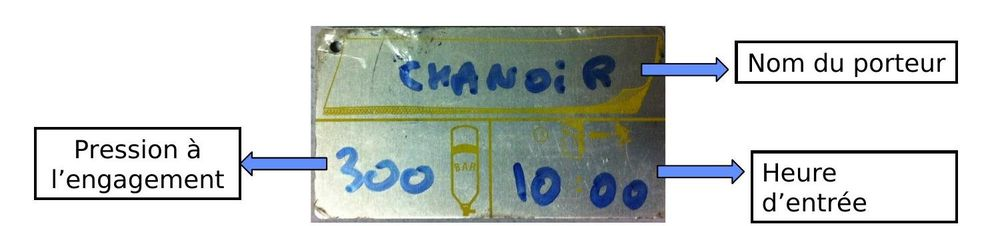
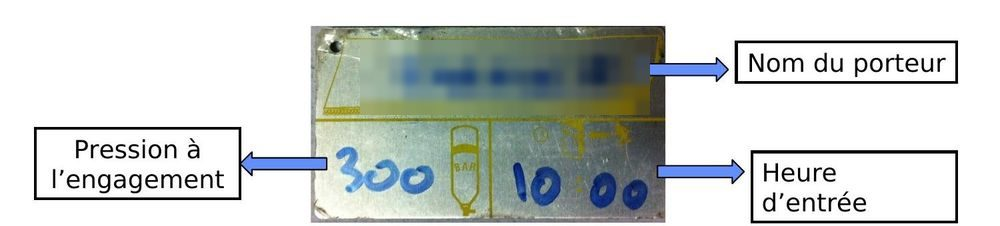
CE incendie : CE 4 reconnaissances et engagement sous ARI (6 chapitres, 42 questions) ; noms réels masqués sur les photos de contrôle ARI
Claude-Session: https://claude.ai/code/session_01FwEfhSDvTBjyVdhfKkJQcz

Changed region(s): [[0.341, 0.1549, 0.651, 0.5265], [0.434, 0.1549, 0.527, 0.1858]]

diff --git a/js/data/ce-4.js b/js/data/ce-4.js
@@ -171,7 +171,7 @@ VSAV.chap({
       html: '<p>Chaque stagiaire renseigne : âge, <b>pouls au repos</b>, <b>pouls limite</b>, nombre de tractions, puis pour chaque exercice (<b>marche normale, marche rapide, tour, cave</b>) les pressions et pouls de départ, d’arrivée et leur différence.</p>' +
         '<div class="callout ok"><b>Débit (consommation) : Q = (P0 − P1) × V / T</b> — P0 : pression de départ ; P1 : pression d’arrivée ; V : volume de la bouteille ; T : temps.</div>' +
         '<p class="small muted">Exemple de calcul (illustration) : départ 300 bar, arrivée 240 bar, bouteille 6 l, 5 min → (300 − 240) × 6 / 5 = 72 l/min.</p>' +
-        '<p><b>Pouls limite</b> (tableau B4-1-2, de 17 à 60 ans) : par exemple 170 à 20 ans, 161,5 à 30 ans, 153 à 40 ans, 144,5 à 50 ans, 136 à 60 ans. Les valeurs du tableau correspondent à 0,85 × (220 − âge).</p>' +
+        '<p><b>Pouls limite</b> (tableau B4-1-2, de 17 à 60 ans) : par exemple 170 à 20 ans, 161,5 à 30 ans, 153 à 40 ans, 144,5 à 50 ans, 136 à 60 ans.</p>' +
         '<p>La séquence B4-1 fait prendre le pouls au repos, puis après <b>5 min de marche lente</b> et <b>5 min de marche rapide</b> sous ARI.</p>' },
     { id: 'classes', t: 'Classer le comportement du porteur : A, B, C', ic: 'psy', src: CE4_FOR + ', fiche individuelle d’entraînement (B4-1-1) ; dossier B2 (séquence B4-2) ; séquence 2, diaporama (diapo 3)',
       html: '<div class="tw"><table><thead><tr><th>Classe</th><th>Profil</th></tr></thead><tbody>' +
@@ -310,7 +310,7 @@ VSAV.chap({
 VSAV.chap({
   id: 'ce-ligne-vie', part: 'ce', seq: CE4,
   title: 'Ligne de vie et reconnaissance longue distance', short: 'Ligne de vie, longue distance', motif: 'rope',
-  sources: [CE4_FOR + ', séquence 1 « Composition d’une ligne de vie » (guide formateur, livret apprenant, vrai/faux corrigé)', CE4_FOR + ', séquence 2, diaporama (diapos 12 à 15) ; dossier B2 (séquence B4-2, extraits du GNR)', CE4_FOR + ', séquence 3 « Reconnaissance longue distance » (fiche séquentielle, fiche d’activité, grille d’évaluation formative) ; B5 « Exercice en cave à fumée » (fiche séquentielle, fiche d’activité B5-3)', CE4_GTO + ', chap. I § 1.3.1 (p. 18-21) et chap. III § 1 (p. 39-47)'],
+  sources: [CE4_FOR + ', séquence 1 « Composition d’une ligne de vie » (guide formateur, livret apprenant, vrai/faux corrigé)', CE4_FOR + ', séquence 2, diaporama (diapos 11 à 15) ; dossier B2 (séquence B4-2, extraits du GNR)', CE4_FOR + ', séquence 3 « Reconnaissance longue distance » (fiche séquentielle, fiche d’activité, grille d’évaluation formative) ; B5 « Exercice en cave à fumée » (fiche séquentielle, fiche d’activité B5-3)', CE4_GTO + ', chap. I § 1.3.1 (p. 18-21) et chap. III § 1 (p. 39-47)'],
   summary: 'Ligne guide, liaison personnelle, tableau et plaques de contrôle, dérivation ; les quatre manœuvres (simple reconnaissance, latérale, opération complexe, dérivation) et ce sur quoi le chef d’équipe est évalué.',
   why: '<b>Pourquoi tant de rigueur sur une simple corde ?</b> Dans une fumée opaque et sur une longue distance, la ligne de vie est le <b>seul lien physique</b> entre le binôme, la sortie et le contrôleur. Le chef d’équipe donne la direction et explore ; l’équipier tend la ligne et réalise les amarrages. La grille d’évaluation le rappelle : la rapidité ne doit <b>jamais</b> être privilégiée au détriment de la sécurité.',
   sections: [
